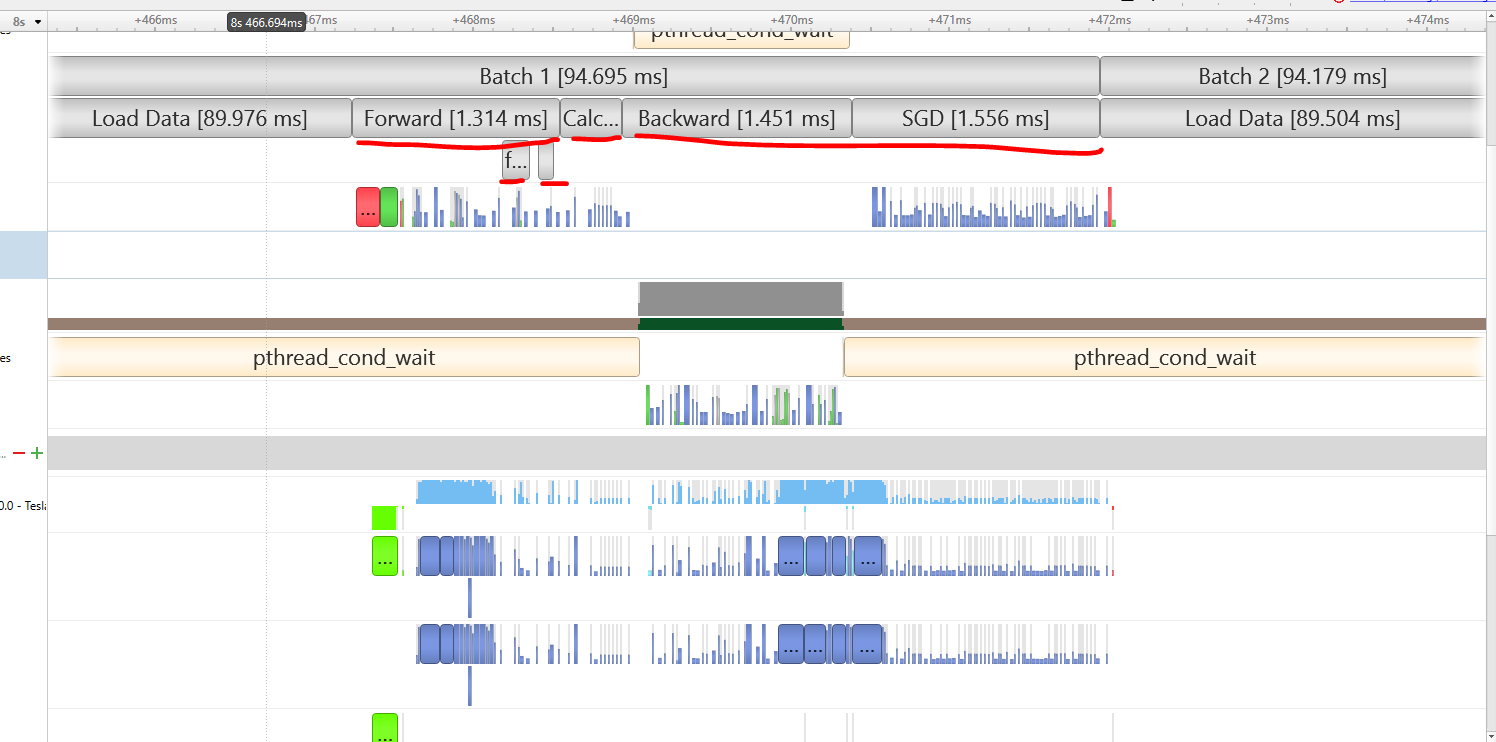
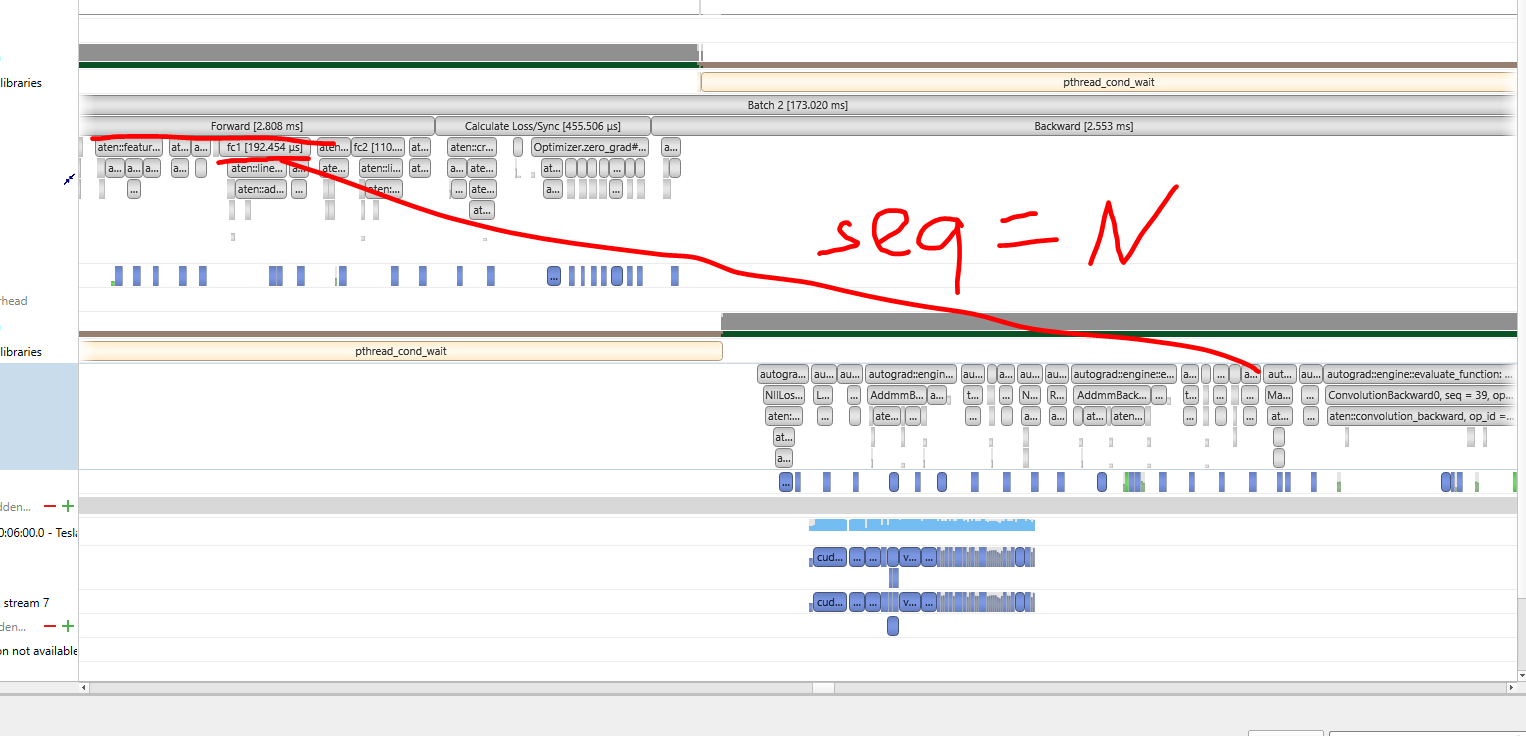
autograd

diff --git a/nvtx_torch.py b/nvtx_torch.py
@@ -10,6 +10,8 @@ import torch.nn.functional as F
 import pandas as pd
 import torchvision
 import torch.cuda.nvtx as nvtx
+#import nvidia_dlprof_pytorch_nvtx as nvtx
+#nvtx.init(enable_function_stack=True)
 
 import os
 os.environ["CUDA_DEVICE_ORDER"] = "PCI_BUS_ID"
@@ -23,17 +25,21 @@ class Net(nn.Module):
         self.conv2_drop = nn.Dropout2d()
         self.fc1 = nn.Linear(320, 50) #4*4*20
         self.fc2 = nn.Linear(50, 10)
-    def forward(self, x):
+    def forward(self, x, batch_id):
         x = F.relu(F.max_pool2d(self.conv1(x), 2))
         x = F.relu(F.max_pool2d(self.conv2_drop(self.conv2(x)), 2))
         x = x.view(-1, 320)
-        nvtx.range_push("fc1")
+        if batch_id > 0:
+            nvtx.range_push("fc1")
         x = F.relu(self.fc1(x))
-        nvtx.range_pop()
+        if batch_id > 0:
+            nvtx.range_pop()
         x = F.dropout(x, training=self.training)
-        nvtx.range_push("fc2")
+        if batch_id > 0:
+            nvtx.range_push("fc2")
         x = self.fc2(x)
-        nvtx.range_pop()
+        if batch_id > 0:
+            nvtx.range_pop()
         return F.log_softmax(x,dim=1)
 
 batch_size=512
@@ -68,24 +74,30 @@ test_loader = torch.utils.data.DataLoader(
 
 model.cuda()
 criterion.cuda()
-nvtx.range_push("Batch 0")
-nvtx.range_push("Load Data")
+#nvtx.range_push("Batch 0")
+#nvtx.range_push("Load Data")
 
-for i in range(epoch):
+
+with torch.autograd.profiler.emit_nvtx():
+  for i in range(epoch):
     for batch_idx, (data,label) in enumerate(train_loader):
-        nvtx.range_pop(); nvtx.range_push("Forward")
+        if batch_idx > 0 : 
+            nvtx.range_pop(); nvtx.range_push("Forward")
         #输出值
         data = data.cuda()
         label = label.cuda()
-        outputs = model(data)
-        nvtx.range_pop(); nvtx.range_push("Calculate Loss/Sync")
+        outputs = model(data, batch_idx)
+        if batch_idx > 0 : 
+            nvtx.range_pop(); nvtx.range_push("Calculate Loss/Sync")
         #损失值
         loss = criterion(outputs, label)
         #反向传播，将所有梯度的参数清0，否则该步的梯度会和前面已经计算的梯度累乘
         optimizer.zero_grad()
-        nvtx.range_pop(); nvtx.range_push("Backward")
+        if batch_idx > 0: 
+            nvtx.range_pop(); nvtx.range_push("Backward")
         loss.backward()
-        nvtx.range_pop(); nvtx.range_push("SGD")
+        if batch_idx > 0: 
+            nvtx.range_pop(); nvtx.range_push("SGD")
         optimizer.step()
         nvtx.range_pop(); nvtx.range_pop()
         nvtx.range_push("Batch " + str(batch_idx+1)); nvtx.range_push("Load Data")

diff --git a/README.md b/README.md
@@ -4,6 +4,7 @@
 
 ### step1: add nvtx.range_push() nvtx.range_pop()
 
+#### step 1.1
 ```
 import torch.cuda.nvtx as nvtx 
 nvtx.range_push("Batch 0") 
@@ -27,6 +28,12 @@ for i, (input_data, target) in enumerate(train_loader):
 
 nvtx.range_pop()
 nvtx.range_pop() 
+```
+
+#### step 1.2 (backward layer could be recognized by seq=N)
+```
+with torch.autograd.profiler.emit_nvtx():
+    for ...
 ```
 
 ### step2: run nsys
